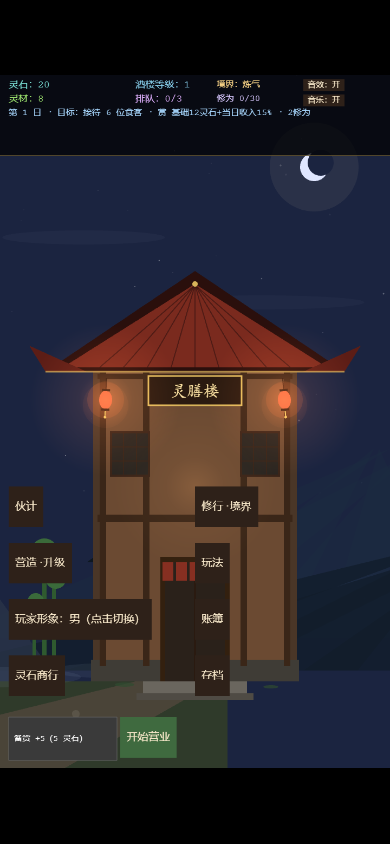
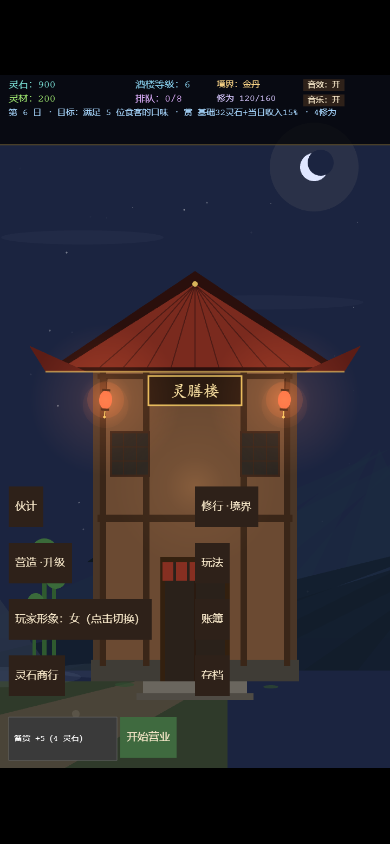
画面再收一版：桌距/人物比例、单行见闻录、猫咪与用膳碗筷
- 桌位扩到 -230..200、人物 1.18 倍，8 桌不再挤成一排；待客位 275 不与右桌重叠
- 状态栏收到 130，见闻录只留最新 1 行；气泡左右留 120 余量，最左桌不被裁
- 用膳碗筷移到人物前方（depth 21），坐姿与热气可见
- 柜台上加一只会摆尾的小猫；门外补竹丛/石灯笼/栅栏/远处屋脊
- 修复新档 canvas 上下不居中（y=75）；生产构建复核通过
- 更新标题、打烊、营业高峰截图

测试：46 条单测、tsc、生产构建通过。

Changed region(s): [[0.0, 0.0924, 1.0, 0.1848], [0.0923, 0.0924, 0.1538, 0.1232], [0.1846, 0.7085, 0.2154, 0.7393]]

diff --git a/src/main.ts b/src/main.ts
@@ -67,7 +67,7 @@ const HIRE_COST_HAWKER = 30;
 const HIRE_COST_SERVER = 40;
 const HIRE_COST_COOK = 50;
 const HIRE_COST_BUYER = 35;
-const CHRONICLE_MAX_LINES = 2;
+const CHRONICLE_MAX_LINES = 1;
 const SAVE_KEY = "tavern_save_v1";
 const AUTOSAVE_MS = 2000;
 const MAX_EVENTS_PER_SESSION = 2;
@@ -85,7 +85,7 @@ const COLOR_STAFF = 0x4da6ff;
 const SCREEN_W = 720;
 const SCREEN_H = 1280;
 /** 界面分区（见 GLOSSARY）：状态栏 / 主屏 / 副屏。 */
-const STATUS_BAR_H = 150;
+const STATUS_BAR_H = 130;
 const XIAN_FONT = '"KaiTi","STKaiti","Kaiti SC","Noto Serif SC",serif';
 const SECONDARY_TOP = 1077;
 const CARD_W = 600;
@@ -98,15 +98,15 @@ const SKY_TRANSITION_MS = 2000;
 
 const FLOOR_Y = 1010;
 const ACTOR_Y = FLOOR_Y - 34;
-const TABLE_X_MIN = -175;
-const TABLE_X_MAX = 145;
+const TABLE_X_MIN = -230;
+const TABLE_X_MAX = 200;
 const QUEUE_X = 350;
 const QUEUE_GAP = 52;
 const PLAYER_HOME = { x: 0, y: ACTOR_Y };
 const HAWKER_HOME = { x: 280, y: ACTOR_Y };
 const SERVER_HOME = { x: 120, y: ACTOR_Y };
 const COOK_HOME = { x: -290, y: ACTOR_Y };
-const SERVE_SPOT = { x: 238, y: ACTOR_Y };
+const SERVE_SPOT = { x: 275, y: ACTOR_Y };
 const COOK_SPOT = { x: -230, y: ACTOR_Y };
 const DOOR_X = 320;
 
@@ -295,7 +295,7 @@ class Character extends Phaser.GameObjects.Container {
   private bubble?: Phaser.GameObjects.Text;
   private bubbleTail?: Phaser.GameObjects.Triangle;
   private dining = false;
-  private static readonly ART_SCALE = 1.12;
+  private static readonly ART_SCALE = 1.18;
   private bodyColor: number;
   private hairColor: number;
   private longHair: boolean;
@@ -651,7 +651,7 @@ class Character extends Phaser.GameObjects.Container {
     this.bubble?.destroy();
     this.bubbleTail?.destroy();
     const cam = this.scene.cameras.main;
-    const bx = Phaser.Math.Clamp(this.x, cam.scrollX + 100, cam.scrollX + SCREEN_W - 100);
+    const bx = Phaser.Math.Clamp(this.x, cam.scrollX + 120, cam.scrollX + SCREEN_W - 120);
     const bubble = this.scene.add
       .text(bx, this.y - 76, text, {
         fontSize: "17px",

diff --git a/docs/playtest.md b/docs/playtest.md
@@ -28,7 +28,8 @@
 - **掌柜与客人同座**：待客位从 x=20 移到门口内侧 x=238，玩家改为走过去而不是瞬移；跑堂领客时点「招待」会提示「跑堂正在领客入座」而不是「门外没客人」。
 - **室内空墙、灯不落地**：加后柜与酒坛、三块木牌菜单、门侧木柱、灶/门/灯笼的加色光斑（径向渐变 + ADD），并在门外加竹丛、石灯笼、木栅栏与远处屋脊；删掉一条像红色斜梁的多余门廊。
 - **左侧货架被切**：营业镜头中心 100→60，左货架与最左雅座完整入画，门口候客仍在 x≈650。
-- **顶部数值/日志压叠、遮罩穿透**：状态栏底 0.55→0.72，见闻录 3 行→2 行，遮罩 0.92–0.95→0.97；菜单目标行缩短为一行。
+- **顶部数值/日志压叠、遮罩穿透**：状态栏底 0.55→0.72、高度 150→130，见闻录 3 行→1 行；遮罩 0.92–0.95→0.97；菜单目标行缩短为一行。
+- **8 桌拥挤**：桌位从 -175..145 扩到 -230..200、人物 scale 1.12→1.18，桌卡间距变大，最左雅座与左货架完整入画；气泡左右各留 120 设计余量。
 - **灰方块按钮**：按钮默认底色改暖木色、文字改米白，出菜行高亮改暖金；关闭条也换成木色金边。
 - **开场像说明书**：新档选完形象直接进店；标题页底部只留一行「迎客入座 · 点菜出餐 · 打烊修行」。
 
